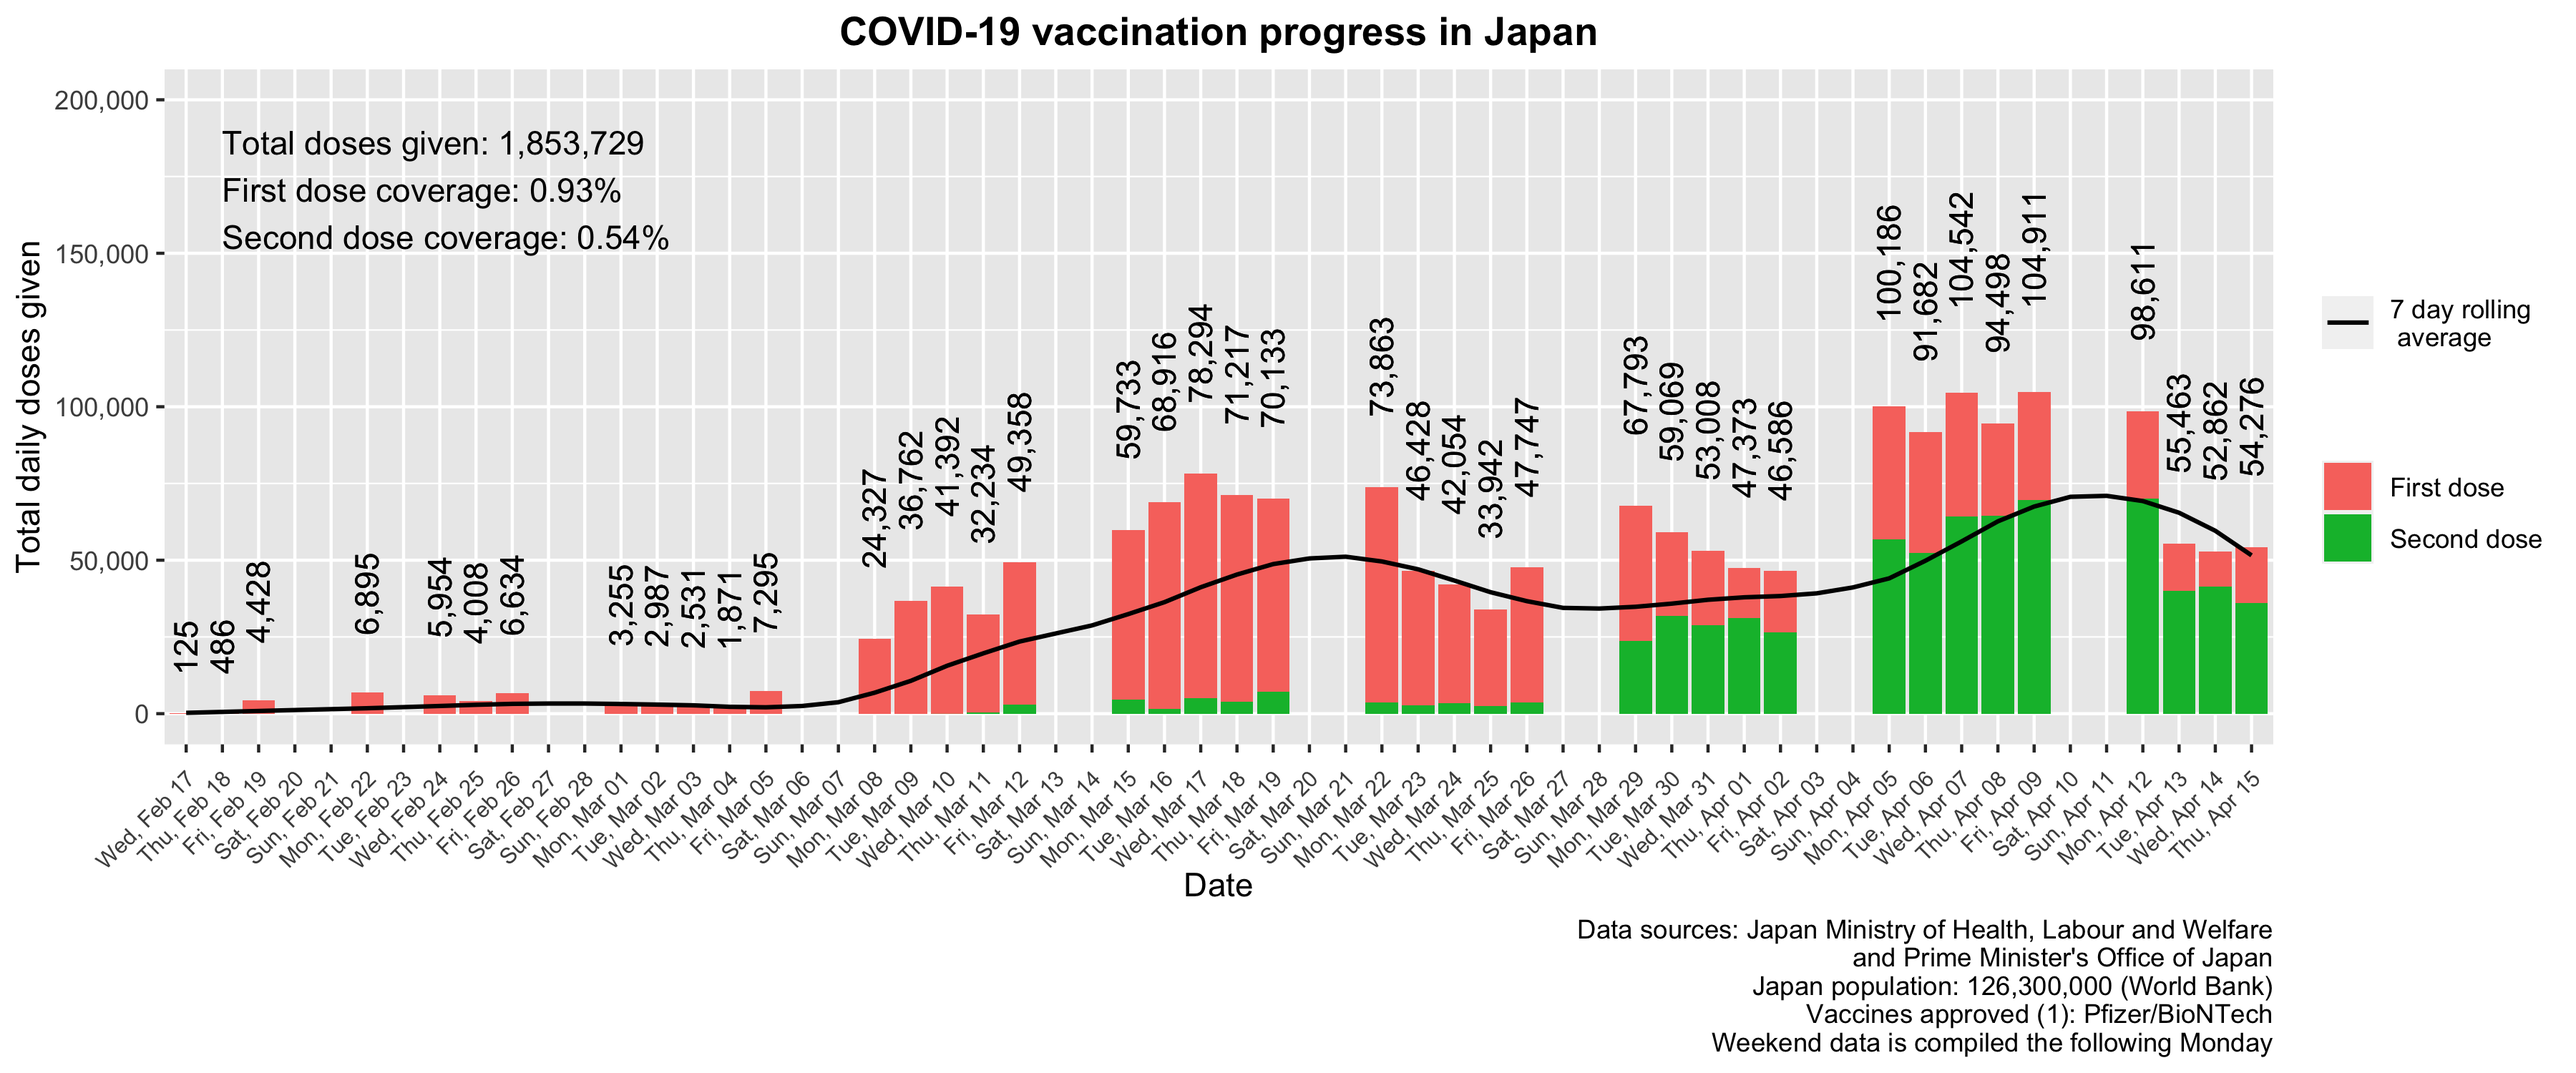
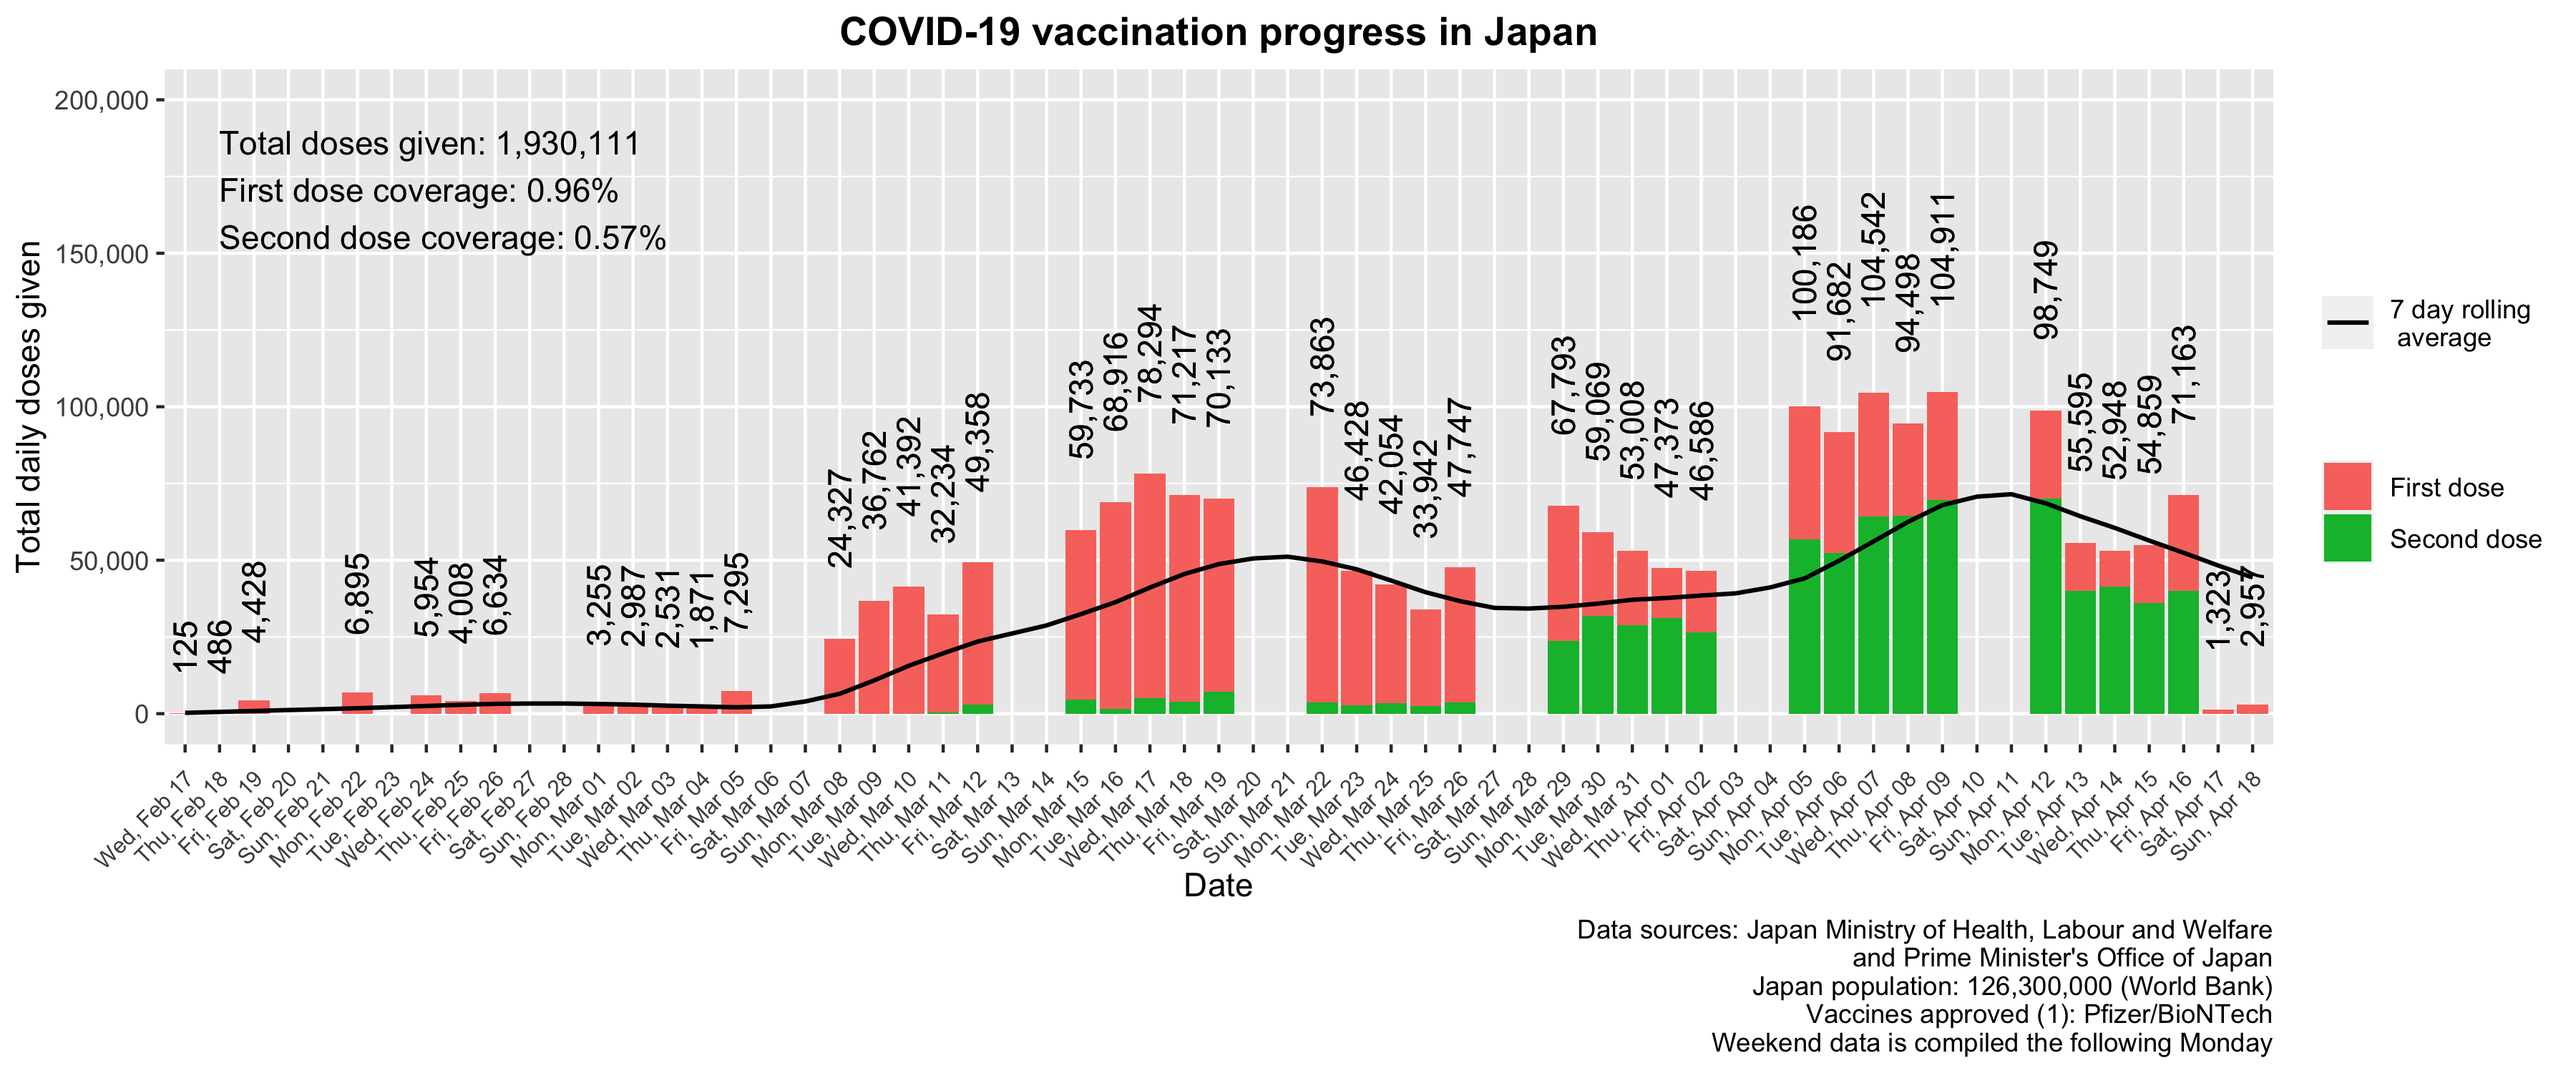
Updated 2021-04-19

Changed region(s): [[0.0311, 0.0613, 0.9022, 0.828]]

diff --git a/japan_vaccine_data.py b/japan_vaccine_data.py
@@ -49,8 +49,13 @@ for line in elderly_file:
 		data_date, day, daily_total_elderly, daily_first_shot_elderly, daily_second_shot_elderly = line.rstrip().split(",")
 		date_time = datetime.strptime(data_date, '%Y/%m/%d')
 		new_date = datetime.strftime(date_time, '%a, %b %d')
+		if new_date not in coordinated_vaccine_data:
+			coordinated_vaccine_data[new_date] = [0, 0, 0]
 		daily_total_comma = "{:,}".format(int(daily_total_elderly)+coordinated_vaccine_data[new_date][0])
-		coordinated_vaccine_data[new_date] = [int(daily_total_elderly)+coordinated_vaccine_data[new_date][0], int(daily_first_shot_elderly)+coordinated_vaccine_data[new_date][1], int(daily_second_shot_elderly)+coordinated_vaccine_data[new_date][2], daily_total_comma]
+		new_daily_total = int(daily_total_elderly)+coordinated_vaccine_data[new_date][0]
+		new_daily_first_shot = int(daily_first_shot_elderly)+coordinated_vaccine_data[new_date][1]
+		new_daily_second_shot = int(daily_second_shot_elderly)+coordinated_vaccine_data[new_date][2]
+		coordinated_vaccine_data[new_date] = [new_daily_total, new_daily_first_shot, new_daily_second_shot, daily_total_comma]
 
 
 for line in MHLW_data_file:
